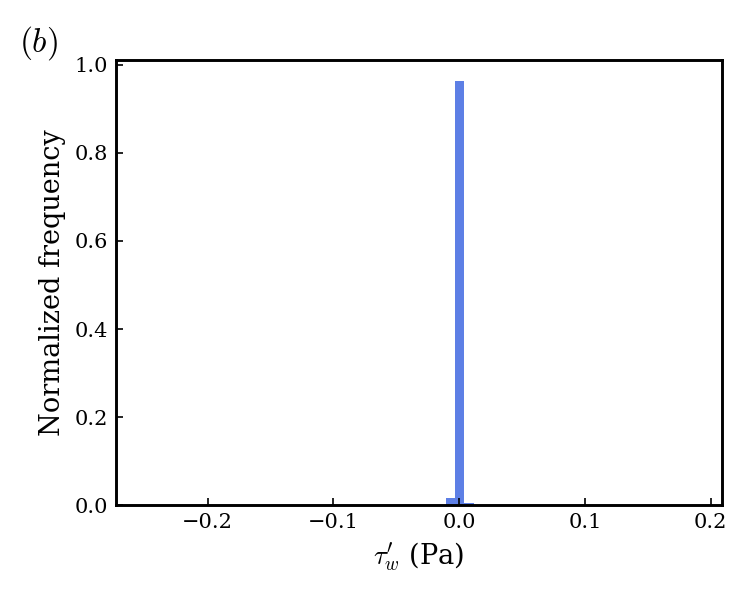
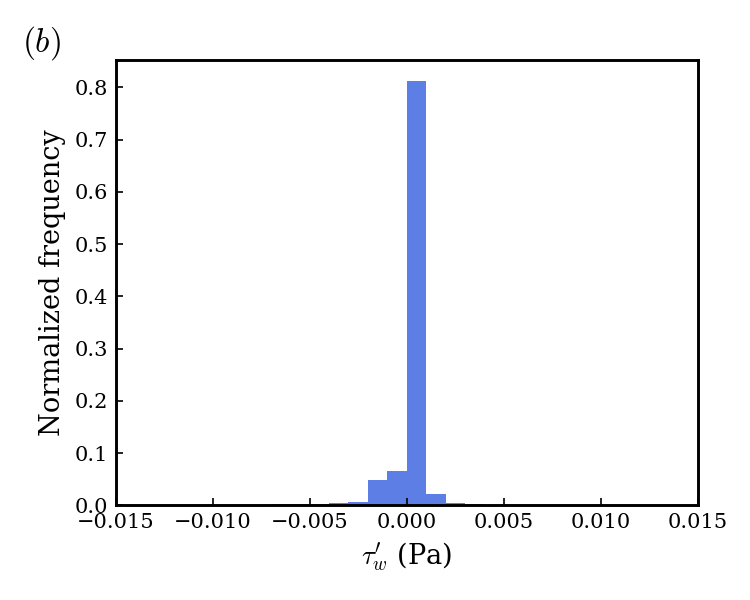
fix(fig8): match Kim's exact axis limits and histogram bin resolution
User supplied Kim's real axis limits directly (read off the source
figure): panel (a) tau +-3e-3 Pa, EDR 0-0.4 W/m3; panel (b) tau +-15e-3
Pa; panel (c) EDR 0-1.0 W/m3. Setting these makes the amplitude gap from
the previous commit immediately visible (our tau/EDR peaks sit in the
bottom third of Kim's own scale).

Also fixed the (b)/(c) histograms properly, not just the axis view:
bins were computed over OUR full data range (tau tail reaches +-0.25 Pa,
~17x wider than Kim's window), so zooming into his +-15e-3 window left
only ~3 giant leftover bars instead of a real distribution shape. Rebinned
within his window at comparable resolution (30 bins), normalized by the
TOTAL sample count (not just the in-window subset) so the visible bars
aren't inflated by silently excluding the tail. Only 1.4%/0.95% of our
tau/EDR samples actually fall outside his window, so this isn't hiding a
large excluded fraction either.

Result, now a fair comparison: our distributions are genuinely more
peaked near zero than Kim's even at matching window and bin resolution
(tau: 0.81 vs ~0.25 in the first bin; EDR: 0.96 vs ~0.53) -- not a
binning artifact.

Claude-Session: https://claude.ai/code/session_01YAKLKMs5oUYu8r6RenvudK

diff --git a/scripts/plot_fig8.py b/scripts/plot_fig8.py
@@ -72,11 +72,12 @@ l1, = ax1.plot(t_over_Tp, tau_mean_pa, color="royalblue", lw=1.6, label=r"$\lang
 ax1.axhline(0, color="gray", lw=0.6, ls="-")
 ax1.set_xlabel(r"$t/T_p$", fontsize=13)
 ax1.set_ylabel(r"$\langle\tau_w'\rangle$ (Pa)", fontsize=13, color="royalblue")
+ax1.set_ylim(-3e-3, 3e-3)
 ax1.tick_params(axis="y", labelcolor="royalblue")
 
 ax2 = ax1.twinx()
 l2, = ax2.plot(t_over_Tp, ediss_mean_wm3, color="firebrick", lw=1.6, label=r"$\langle\epsilon_w'\rangle$")
-ax2.set_ylim(bottom=0)
+ax2.set_ylim(0.0, 0.4)
 ax2.set_ylabel(r"$\langle\epsilon_w'\rangle$ (W/m$^3$)", fontsize=13, color="firebrick")
 ax2.tick_params(axis="y", labelcolor="firebrick")
 
@@ -120,26 +121,42 @@ ediss_liquid = ediss_field[f_ediss > 0.5] * ediss_scale
 print(f"tau_liquid (signed) range at peak frame: [{tau_liquid.min():.6f}, {tau_liquid.max():.6f}] Pa")
 print(f"ediss_liquid range at peak frame: [{ediss_liquid.min():.6f}, {ediss_liquid.max():.6f}] W/m3")
 
+# Bins span Kim's OWN window, not our full data range -- binning over our
+# much wider range (tau tail reaches +-0.25 Pa) and then zooming into his
+# +-15e-3 window would leave only ~3 giant bins visible instead of a real
+# distribution shape. Counts still normalize by the TOTAL sample count
+# (not just the in-window subset), so the visible bars are not inflated by
+# excluding the tail -- the tail's share is reported separately below.
+def _hist_in_window(values, lo, hi, n_bins=30):
+    bins = np.linspace(lo, hi, n_bins + 1)
+    counts, edges = np.histogram(values, bins=bins)
+    counts_norm = counts / len(values)  # normalize by ALL samples, not just in-window
+    return counts_norm, edges
+
 fig, ax = plt.subplots(figsize=(5.0, 4.0))
-counts, bins = np.histogram(tau_liquid, bins=60)
-counts_norm = counts / counts.sum()
-ax.bar(bins[:-1], counts_norm, width=np.diff(bins), align="edge",
+counts_norm, edges = _hist_in_window(tau_liquid, -15e-3, 15e-3)
+ax.bar(edges[:-1], counts_norm, width=np.diff(edges), align="edge",
        color="royalblue", edgecolor="none", alpha=0.85)
+ax.set_xlim(-15e-3, 15e-3)
 ax.set_xlabel(r"$\tau_w'$ (Pa)", fontsize=13)
 ax.set_ylabel("Normalized frequency", fontsize=13)
 ax.text(-0.16, 1.02, r'$(b)$', transform=ax.transAxes, fontsize=16, style='italic')
 fig.tight_layout()
 fig.savefig(OUT_DIR / "fig8_b_v2.png", dpi=150)
 print("saved fig8_b_v2.png")
+frac_outside_b = float(((tau_liquid < -15e-3) | (tau_liquid > 15e-3)).mean())
+print(f"fraction of tau_liquid outside Kim's [-15e-3,15e-3] window: {frac_outside_b*100:.2f}%")
 
 fig, ax = plt.subplots(figsize=(5.0, 4.0))
-counts, bins = np.histogram(ediss_liquid, bins=60)
-counts_norm = counts / counts.sum()
-ax.bar(bins[:-1], counts_norm, width=np.diff(bins), align="edge",
+counts_norm, edges = _hist_in_window(ediss_liquid, 0.0, 1.0)
+ax.bar(edges[:-1], counts_norm, width=np.diff(edges), align="edge",
        color="firebrick", edgecolor="none", alpha=0.85)
+ax.set_xlim(0.0, 1.0)
 ax.set_xlabel(r"$\epsilon_w'$ (W/m$^3$)", fontsize=13)
 ax.set_ylabel("Normalized frequency", fontsize=13)
 ax.text(-0.16, 1.02, r'$(c)$', transform=ax.transAxes, fontsize=16, style='italic')
 fig.tight_layout()
 fig.savefig(OUT_DIR / "fig8_c_v2.png", dpi=150)
+frac_outside_c = float((ediss_liquid > 1.0).mean())
+print(f"fraction of ediss_liquid above Kim's 1.0 W/m3 window: {frac_outside_c*100:.2f}%")
 print("saved fig8_c_v2.png")
